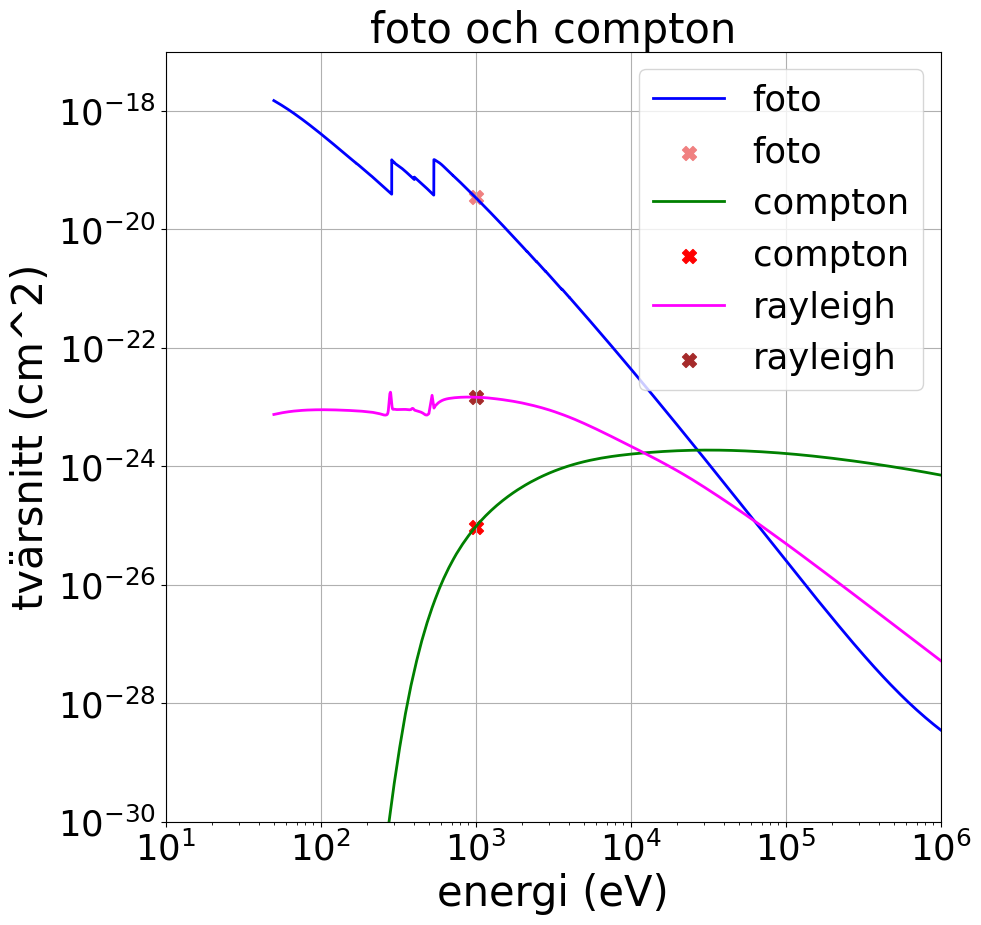
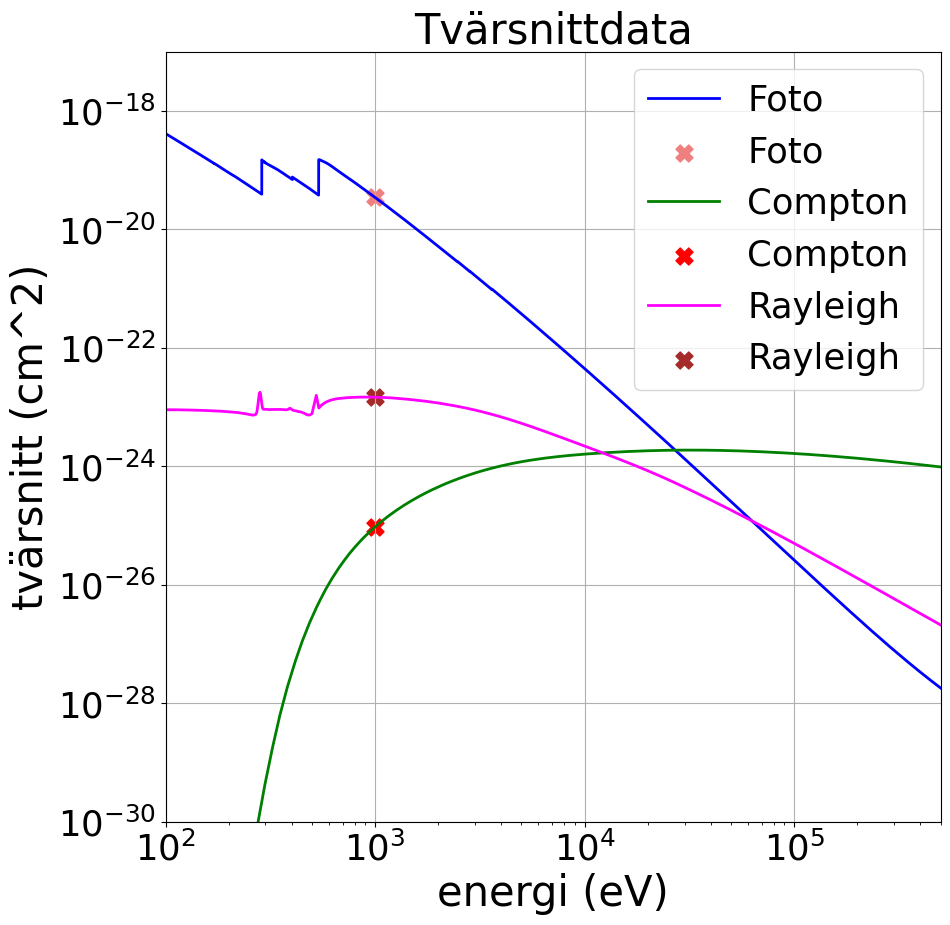
.

diff --git a/Martin/upg1_sampla_växelverkan.py b/Martin/upg1_sampla_växelverkan.py
@@ -192,13 +192,13 @@ if __name__ == "__main__":
     x_data = [energi_list, energi, energi_list, energi, energi_list, energi]
     y_data = [foto_list, foto_target, compton_list, compton_target, rayleigh_list, rayleigh_target]
     scatter = [2, 1, 2, 1, 2, 1]
-    label_data = ['foto', 'foto', 'compton', 'compton', 'rayleigh', 'rayleigh']
+    label_data = ['Foto', 'Foto', 'Compton', 'Compton', 'Rayleigh', 'Rayleigh']
     marker = ['o', 'X', 'o', 'X', 'o', 'X']
     color = ['blue', 'lightcoral', 'green', 'red', 'magenta', 'brown']
 
     fig = plot_stuff(x_data, y_data, scatter, label_data,
-                     marker, color, x_label='energi (eV)', y_label='tvärsnitt (cm^2)', title='foto och compton',
-                     fig_size=(10, 10), symbol_size=100, font_size=30, alpha=1, line_width=2, x_lim=(10, 10 ** 6),
+                     marker, color, x_label='energi (eV)', y_label='tvärsnitt (cm^2)', title='Tvärsnittdata',
+                     fig_size=(10, 10), symbol_size=150, font_size=30, alpha=1, line_width=2, x_lim=(100, 5 * 10 ** 5),
                      y_lim=(10 ** (-30), 10 ** (-17)),
                      grid=True, x_scale='log', y_scale='log')
 

diff --git a/Martin/imports.py b/Martin/imports.py
@@ -104,14 +104,9 @@ At211_sannolikhet = np.cumsum(At211_intensitet / np.sum(At211_intensitet))
 #   Filer med Data
 #   ----------------------------------------------------------------------
 
-# tvärsnitt_file = '../given_data/Tvärsnittstabeller_Fotoner.xlsx'
-# attenueringsdata_file = '../given_data/Attenueringsdata.xlsx'
-# anatomidefinitioner_file = '../given_data/Anatomidefinitioner.xlsx'
-
-
-tvärsnitt_file = 'Tvärsnittstabeller_Fotoner.xlsx'
-attenueringsdata_file = 'Attenueringsdata.xlsx'
-anatomidefinitioner_file = 'Anatomidefinitioner.xlsx'
+tvärsnitt_file = '../given_data/Tvärsnittstabeller_Fotoner.xlsx'
+attenueringsdata_file = '../given_data/Attenueringsdata.xlsx'
+anatomidefinitioner_file = '../given_data/Anatomidefinitioner.xlsx'
 
 mat_file = 'phantom_data.mat'
 

diff --git a/Martin/upg2_alfa.py b/Martin/upg2_alfa.py
@@ -127,7 +127,6 @@ def run_MC_alpha(iterationer, df_stopping_power, position_start_alpha, radie, ma
     """
 
     energideponering_summa = 0
-    utanför = 0
     start_energi = energi_start(At211_energi, At211_sannolikhet)
 
     if position_start_alpha == position_start_alpha_skal:
@@ -151,8 +150,6 @@ def run_MC_alpha(iterationer, df_stopping_power, position_start_alpha, radie, ma
 
         energideponering_summa += energideponering
 
-    print('antal utanför: ', utanför)
-    print('total energideponering: ', energideponering_summa)
     print(f'\nEnergideponering per partikel: {energideponering_summa / iterationer:.2f} eV / partikel')
     return energideponering_summa
 
